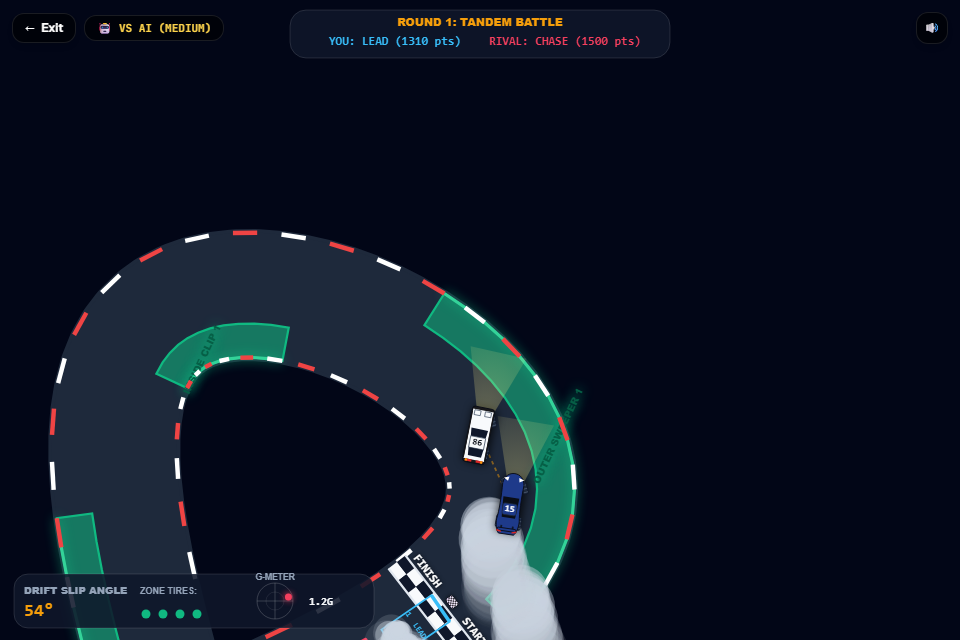
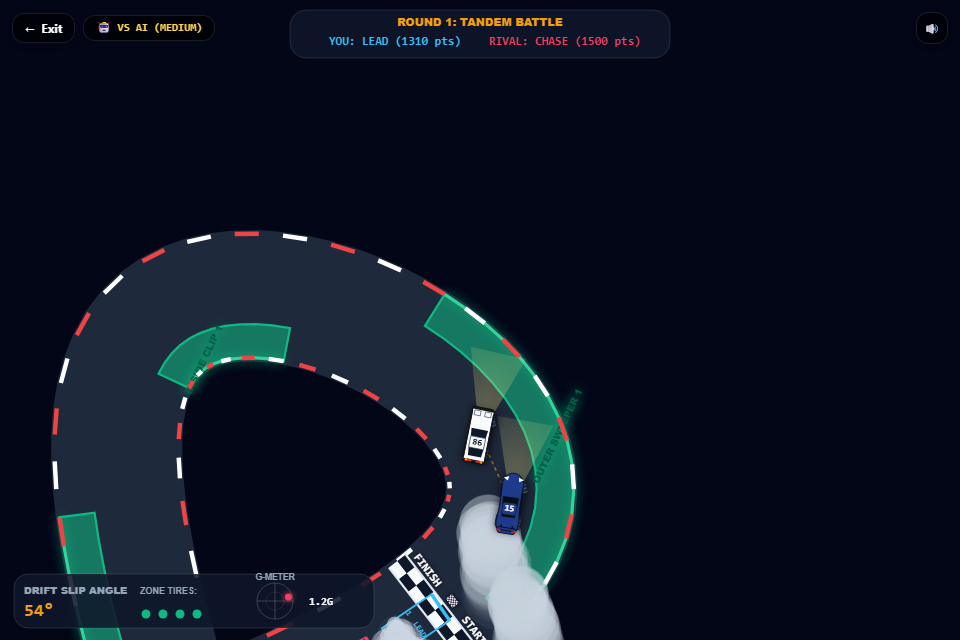
tune(drift-racing): reduce overall top speed and acceleration to deliver calm deliberate drift pacing and controllability

diff --git a/src/games/drift-racing/drift-ai.ts b/src/games/drift-racing/drift-ai.ts
@@ -66,16 +66,16 @@ export class DriftAI {
 
     // Drift initiation: if turning sharply or inside clipping zone, use handbrake
     const needDrift = (Math.abs(angleDiff) > 0.38 || inClippingZone);
-    const handbrake = needDrift && (state.speed > 1.6) && (state.driftSlipAngle < 22);
+    const handbrake = needDrift && (state.speed > 1.1) && (state.driftSlipAngle < 22);
 
     // Throttle modulation
-    let maxSpeed = 3.4;
-    if (this.difficulty === 'easy') maxSpeed = 2.7;
-    if (this.difficulty === 'hard') maxSpeed = 3.9;
-    if (this.difficulty === 'extreme') maxSpeed = 4.3;
+    let maxSpeed = 2.4;
+    if (this.difficulty === 'easy') maxSpeed = 1.8;
+    if (this.difficulty === 'hard') maxSpeed = 2.7;
+    if (this.difficulty === 'extreme') maxSpeed = 3.0;
 
     const throttle = (state.speed < maxSpeed) ? 1.0 : 0.35;
-    const brake = (state.speed > maxSpeed + 0.6);
+    const brake = (state.speed > maxSpeed + 0.4);
 
     return { throttle, steer, brake, handbrake };
   }
@@ -113,9 +113,9 @@ export class DriftAI {
     const steer = Math.max(-1, Math.min(1, angleDiff * 1.8));
 
     // Match Lead car's speed + close gap
-    let desiredSpeed = Math.min(leadState.speed, 4.2);
-    if (distToTarget > 30) desiredSpeed += 0.5;
-    if (distToTarget < 12) desiredSpeed -= 0.5;
+    let desiredSpeed = Math.min(leadState.speed, 3.0);
+    if (distToTarget > 28) desiredSpeed += 0.35;
+    if (distToTarget < 12) desiredSpeed -= 0.4;
 
     // Check front axle overtake prevention (Rule 8: cannot pass lead front axle)
     const relX = aiState.x - leadState.x;
@@ -123,12 +123,12 @@ export class DriftAI {
     const forwardProj = relX * leadSin - relY * leadCos;
     if (forwardProj > 8) {
       // Back off to prevent overtake penalty!
-      desiredSpeed = Math.max(0.8, leadState.speed - 0.8);
+      desiredSpeed = Math.max(0.6, leadState.speed - 0.6);
     }
 
     const throttle = (aiState.speed < desiredSpeed) ? 1.0 : 0.25;
-    const brake = (aiState.speed > desiredSpeed + 0.6);
-    const handbrake = (Math.abs(angleDiff) > 0.35 && aiState.speed > 1.8 && aiState.driftSlipAngle < 18);
+    const brake = (aiState.speed > desiredSpeed + 0.4);
+    const handbrake = (Math.abs(angleDiff) > 0.35 && aiState.speed > 1.2 && aiState.driftSlipAngle < 18);
 
     return { throttle, steer, brake, handbrake };
   }

diff --git a/src/games/drift-racing/drift-engine.ts b/src/games/drift-racing/drift-engine.ts
@@ -144,8 +144,8 @@ export class DriftEngine {
     // 4. Drift State & Oversteer Detection
     // The car effortlessly initiates a drift when:
     // a) Handbrake (Space / DRIFT button) is tapped
-    // b) Power-oversteer: turning with throttle at speed (Math.abs(inputs.steer) > 0.45 && inputs.throttle > 0.5 && currentSpeed > 1.2)
-    const isPowerOversteer = (Math.abs(inputs.steer) > 0.45 && inputs.throttle > 0.5 && currentSpeed > 1.2);
+    // b) Power-oversteer: turning with throttle at speed (Math.abs(inputs.steer) > 0.45 && inputs.throttle > 0.5 && currentSpeed > 0.85)
+    const isPowerOversteer = (Math.abs(inputs.steer) > 0.45 && inputs.throttle > 0.5 && currentSpeed > 0.85);
     const wantsDrift = inputs.handbrake || isPowerOversteer;
 
     // Current drift slip angle in degrees
@@ -153,7 +153,7 @@ export class DriftEngine {
     const isCurrentlyDrifting = currentSlipAngle > DRIFT_CONSTANTS.DRIFT_INIT_ANGLE_DEG || wantsDrift;
 
     // 5. Angular Yaw Dynamics with Real Chassis Rotational Inertia (Body Weight)
-    const speedRatio = Math.min(1.0, currentSpeed / 1.5);
+    const speedRatio = Math.min(1.0, currentSpeed / 1.1);
     const forwardDirection = (vFwd >= -0.1 ? 1 : -1);
 
     if (currentSpeed > 0.1) {
@@ -177,8 +177,8 @@ export class DriftEngine {
 
     // 6. Calculate Lateral & Longitudinal G-Forces (Weight Transfer)
     // Lateral G from cornering rate & lateral slide
-    state.lateralG = (vFwd * state.angularVelocity * 14.0) + (vLat * 0.3);
-    const targetRoll = Math.max(-DRIFT_CONSTANTS.MAX_BODY_ROLL_RAD, Math.min(DRIFT_CONSTANTS.MAX_BODY_ROLL_RAD, state.lateralG * 0.04));
+    state.lateralG = (vFwd * state.angularVelocity * 20.0) + (vLat * 0.35);
+    const targetRoll = Math.max(-DRIFT_CONSTANTS.MAX_BODY_ROLL_RAD, Math.min(DRIFT_CONSTANTS.MAX_BODY_ROLL_RAD, state.lateralG * 0.045));
     state.bodyRoll += (targetRoll - state.bodyRoll) * DRIFT_CONSTANTS.SUSPENSION_ROLL_RATE;
 
     // Longitudinal G from throttle squat & brake dive

diff --git a/src/games/drift-racing/drift-constants.ts b/src/games/drift-racing/drift-constants.ts
@@ -1,13 +1,13 @@
 export const DRIFT_CONSTANTS = {
-  // Vehicle Dynamics (Balanced for realistic chassis weight & G-forces)
-  MAX_SPEED: 4.4,            // Controllable top speed
-  MAX_REVERSE_SPEED: 1.8,
-  ACCEL_FORWARD: 0.075,      // Progressive acceleration
-  BRAKE_RATE: 0.16,          // Controlled deceleration
-  HANDBRAKE_RATE: 0.07,      // Handbrake cuts speed slightly while sustaining slide
-  ROLLING_DRAG: 0.988,       // Coasting deceleration
-  TURN_SPEED: 0.052,         // Smooth, natural turning rate with body weight (not twitchy!)
-  DRIFT_TURN_SPEED: 0.078,   // Controlled yaw rotation during drift
+  // Vehicle Dynamics (Tuned for deliberate, controllable drift speed and pacing)
+  MAX_SPEED: 3.1,            // Calm, controllable top cruising speed
+  MAX_REVERSE_SPEED: 1.4,
+  ACCEL_FORWARD: 0.048,      // Deliberate, smooth acceleration curve (not too fast!)
+  BRAKE_RATE: 0.14,          // Controlled deceleration
+  HANDBRAKE_RATE: 0.055,     // Handbrake cuts speed slightly while sustaining slide
+  ROLLING_DRAG: 0.986,       // Natural engine coasting drag
+  TURN_SPEED: 0.048,         // Smooth, natural turning rate with body weight
+  DRIFT_TURN_SPEED: 0.072,   // Controlled yaw rotation during drift
   STEER_RETURN_RATE: 0.16,   // Progressive steering rack movement (replaces instant twitch)
   MAX_STEER_RAD: 0.54,       // ~31 degrees max front wheel lock
 

diff --git a/src/games/drift-racing/renderers/DriftRenderer.ts b/src/games/drift-racing/renderers/DriftRenderer.ts
@@ -412,7 +412,7 @@ export class DriftRenderer {
    */
   private updateAndRenderSmoke(ctx: CanvasRenderingContext2D, car: VehiclePhysicsState, isDay: boolean) {
     // Deposit Skidmarks
-    if (car.driftSlipAngle > DRIFT_CONSTANTS.DRIFT_INIT_ANGLE_DEG && car.speed > 0.8) {
+    if (car.driftSlipAngle > DRIFT_CONSTANTS.DRIFT_INIT_ANGLE_DEG && car.speed > 0.55) {
       this.skidmarks.push({ x: car.tires[2].x, y: car.tires[2].y, alpha: isDay ? 0.35 : 0.6 });
       this.skidmarks.push({ x: car.tires[3].x, y: car.tires[3].y, alpha: isDay ? 0.35 : 0.6 });
     }
@@ -422,7 +422,7 @@ export class DriftRenderer {
     const isDrifting = (car.driftSlipAngle >= DRIFT_CONSTANTS.DRIFT_INIT_ANGLE_DEG);
     const hasThrottle = (car.throttle > 0.08);
 
-    if (isDrifting && car.speed > 0.75 && hasThrottle) {
+    if (isDrifting && car.speed > 0.50 && hasThrottle) {
       const intensity = (car.driftSlipAngle / 35) + (car.throttle * 1.6);
       const spawnCount = Math.min(5, Math.ceil(intensity));
 
